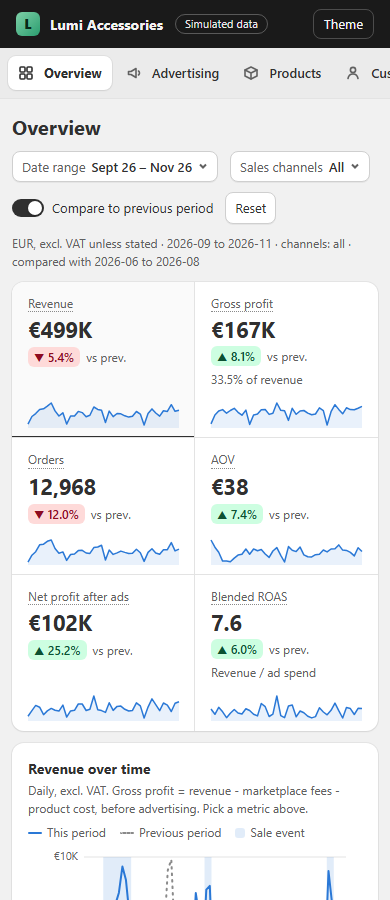
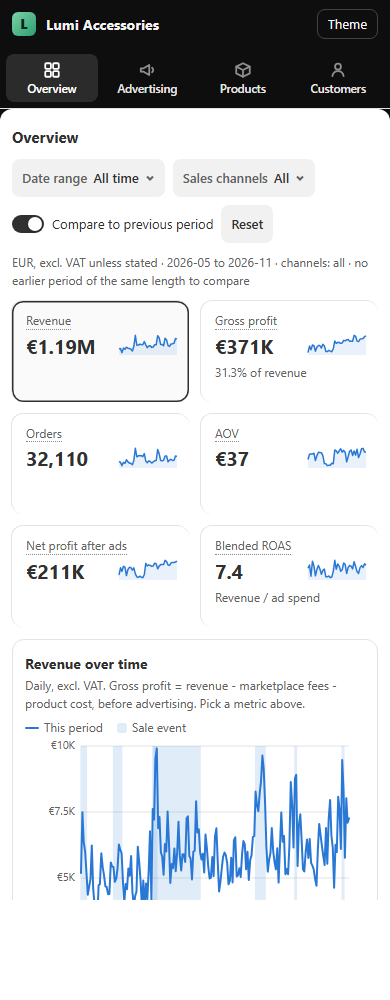
Dashboard: match the admin frame look (dark frame and sidebar, white rounded panel, separate metric cards with small trend lines); refresh screenshots

diff --git a/dashboard/theme.css b/dashboard/theme.css
@@ -165,14 +165,47 @@ details{margin-top:8px}summary{cursor:pointer;font-size:12px;color:var(--ink2)}
 .insight .m{color:var(--ink2);font-size:12.5px}.insight .m b{color:var(--ink)}
 footer.foot-note{margin-top:22px;font-size:12px;color:var(--ink2)}
 
+/* ---- Admin frame (matches the real admin look): dark frame and sidebar, white rounded content panel, separate metric cards ---- */
+:root, :root[data-theme="light"]{--frame:#0e0e0e;--panel:#ffffff;--side-ink:#e6e6e6;--side-muted:#8f8f8f;--side-active:#2b2b2b;--side-hover:#1c1c1c;--chip:#f1f1f1;--card-line:#e3e3e3}
+@media (prefers-color-scheme: dark){:root:where(:not([data-theme="light"])){--frame:#000000;--panel:#151515;--chip:#262626;--card-line:#2e2e2e}}
+:root[data-theme="dark"]{--frame:#000000;--panel:#151515;--chip:#262626;--card-line:#2e2e2e}
+body{background:var(--frame)}
+.topbar{background:var(--frame)}
+.side{background:var(--frame);border-right:none;color:var(--side-ink)}
+.side h6{color:var(--side-muted)}
+.nav{color:var(--side-ink);border-radius:8px}
+.nav svg{color:var(--side-muted)}
+.nav:hover{background:var(--side-hover)}
+.nav[aria-current="page"]{background:var(--side-active);box-shadow:none;color:#fff;font-weight:600}
+.nav[aria-current="page"] svg{color:#fff}
+.side .foot{color:var(--side-muted)}
+.main{background:var(--panel);border-radius:12px;margin:0 6px 6px 0;max-width:none;min-width:0;padding:16px 24px 48px}
+.main > *{max-width:1160px;margin-left:auto;margin-right:auto}
+.page-head h1{font-size:15px;font-weight:650}
+.btn{background:var(--chip);border:1px solid transparent;box-shadow:none;font-weight:550}
+.btn:hover{background:var(--press)}
+.btn.primary{background:var(--primary);color:var(--primary-ink)}
+.card{box-shadow:none;border:1px solid var(--card-line);background:var(--surface)}
+.pop{background:var(--surface)}
+/* metric strip: separate cards, small trend line bottom-right */
+.strip,.card.strip{background:transparent;border:none;box-shadow:none;padding:0;gap:12px;overflow:visible}
+.kpi,.kpi:first-child{border:1px solid var(--card-line);border-radius:12px;background:var(--surface);padding:12px 14px 12px;min-height:92px}
+button.kpi:hover{background:var(--hover)}
+button.kpi[aria-pressed="true"]{box-shadow:inset 0 0 0 1.5px var(--ink)}
+.kpi svg.spark{position:absolute!important;right:12px!important;top:32px!important;bottom:auto!important;width:58px!important;height:22px!important;margin:0!important}
+.kpi .v{font-size:20px;line-height:28px}
+.legend{margin:6px 0 0}
+/* the content-wide notice bar */
+.notice{display:flex;gap:10px;align-items:flex-start;background:var(--info-bg);color:var(--info-ink);border-radius:12px;padding:10px 14px;margin:0 0 12px;font-size:13px}
+
 /* small screens: navigation becomes a sticky 4-column strip (no horizontal scrolling), strip cells fill the row, controls are touch friendly */
 @media (max-width:860px){
   .shell{grid-template-columns:1fr}
-  .side{position:sticky;top:48px;z-index:20;height:auto;display:grid;grid-template-columns:repeat(auto-fit,minmax(0,1fr));gap:4px;overflow:visible;padding:6px;border-right:none;border-bottom:1px solid var(--line)}
+  .side{position:sticky;top:48px;z-index:20;height:auto;background:var(--frame);display:grid;grid-template-columns:repeat(auto-fit,minmax(0,1fr));gap:4px;overflow:visible;padding:6px;border-right:none;border-bottom:1px solid var(--line)}
   .side h6,.side .foot{display:none}
   .nav{flex-direction:column;justify-content:center;gap:3px;padding:6px 2px;font-size:11.5px;line-height:1.2;text-align:center;white-space:normal;min-height:48px}
   .nav svg{width:18px;height:18px}
-  .main{padding:14px 12px 40px}
+  .main{padding:14px 12px 40px;margin:0;border-radius:12px 12px 0 0}
   .page-head h1{width:100%}
   .page-head{gap:8px}
   .btn{min-height:38px}
@@ -180,9 +213,6 @@ footer.foot-note{margin-top:22px;font-size:12px;color:var(--ink2)}
   .pop select{font-size:16px;min-height:38px}
   .pop .item{min-height:40px}
   .strip{grid-template-columns:repeat(2,minmax(0,1fr))}
-  .kpi:nth-child(odd){border-left:none}
-  .kpi{border-top:1px solid var(--line)}
-  .kpi:nth-child(-n+2){border-top:none}
   .kpi:last-child:nth-child(odd){grid-column:span 2}
   .card{padding:14px 12px}
   .grid{gap:10px}

diff --git a/site/index.html b/site/index.html
@@ -173,14 +173,47 @@ details{margin-top:8px}summary{cursor:pointer;font-size:12px;color:var(--ink2)}
 .insight .m{color:var(--ink2);font-size:12.5px}.insight .m b{color:var(--ink)}
 footer.foot-note{margin-top:22px;font-size:12px;color:var(--ink2)}
 
+/* ---- Admin frame (matches the real admin look): dark frame and sidebar, white rounded content panel, separate metric cards ---- */
+:root, :root[data-theme="light"]{--frame:#0e0e0e;--panel:#ffffff;--side-ink:#e6e6e6;--side-muted:#8f8f8f;--side-active:#2b2b2b;--side-hover:#1c1c1c;--chip:#f1f1f1;--card-line:#e3e3e3}
+@media (prefers-color-scheme: dark){:root:where(:not([data-theme="light"])){--frame:#000000;--panel:#151515;--chip:#262626;--card-line:#2e2e2e}}
+:root[data-theme="dark"]{--frame:#000000;--panel:#151515;--chip:#262626;--card-line:#2e2e2e}
+body{background:var(--frame)}
+.topbar{background:var(--frame)}
+.side{background:var(--frame);border-right:none;color:var(--side-ink)}
+.side h6{color:var(--side-muted)}
+.nav{color:var(--side-ink);border-radius:8px}
+.nav svg{color:var(--side-muted)}
+.nav:hover{background:var(--side-hover)}
+.nav[aria-current="page"]{background:var(--side-active);box-shadow:none;color:#fff;font-weight:600}
+.nav[aria-current="page"] svg{color:#fff}
+.side .foot{color:var(--side-muted)}
+.main{background:var(--panel);border-radius:12px;margin:0 6px 6px 0;max-width:none;min-width:0;padding:16px 24px 48px}
+.main > *{max-width:1160px;margin-left:auto;margin-right:auto}
+.page-head h1{font-size:15px;font-weight:650}
+.btn{background:var(--chip);border:1px solid transparent;box-shadow:none;font-weight:550}
+.btn:hover{background:var(--press)}
+.btn.primary{background:var(--primary);color:var(--primary-ink)}
+.card{box-shadow:none;border:1px solid var(--card-line);background:var(--surface)}
+.pop{background:var(--surface)}
+/* metric strip: separate cards, small trend line bottom-right */
+.strip,.card.strip{background:transparent;border:none;box-shadow:none;padding:0;gap:12px;overflow:visible}
+.kpi,.kpi:first-child{border:1px solid var(--card-line);border-radius:12px;background:var(--surface);padding:12px 14px 12px;min-height:92px}
+button.kpi:hover{background:var(--hover)}
+button.kpi[aria-pressed="true"]{box-shadow:inset 0 0 0 1.5px var(--ink)}
+.kpi svg.spark{position:absolute!important;right:12px!important;top:32px!important;bottom:auto!important;width:58px!important;height:22px!important;margin:0!important}
+.kpi .v{font-size:20px;line-height:28px}
+.legend{margin:6px 0 0}
+/* the content-wide notice bar */
+.notice{display:flex;gap:10px;align-items:flex-start;background:var(--info-bg);color:var(--info-ink);border-radius:12px;padding:10px 14px;margin:0 0 12px;font-size:13px}
+
 /* small screens: navigation becomes a sticky 4-column strip (no horizontal scrolling), strip cells fill the row, controls are touch friendly */
 @media (max-width:860px){
   .shell{grid-template-columns:1fr}
-  .side{position:sticky;top:48px;z-index:20;height:auto;display:grid;grid-template-columns:repeat(auto-fit,minmax(0,1fr));gap:4px;overflow:visible;padding:6px;border-right:none;border-bottom:1px solid var(--line)}
+  .side{position:sticky;top:48px;z-index:20;height:auto;background:var(--frame);display:grid;grid-template-columns:repeat(auto-fit,minmax(0,1fr));gap:4px;overflow:visible;padding:6px;border-right:none;border-bottom:1px solid var(--line)}
   .side h6,.side .foot{display:none}
   .nav{flex-direction:column;justify-content:center;gap:3px;padding:6px 2px;font-size:11.5px;line-height:1.2;text-align:center;white-space:normal;min-height:48px}
   .nav svg{width:18px;height:18px}
-  .main{padding:14px 12px 40px}
+  .main{padding:14px 12px 40px;margin:0;border-radius:12px 12px 0 0}
   .page-head h1{width:100%}
   .page-head{gap:8px}
   .btn{min-height:38px}
@@ -188,9 +221,6 @@ footer.foot-note{margin-top:22px;font-size:12px;color:var(--ink2)}
   .pop select{font-size:16px;min-height:38px}
   .pop .item{min-height:40px}
   .strip{grid-template-columns:repeat(2,minmax(0,1fr))}
-  .kpi:nth-child(odd){border-left:none}
-  .kpi{border-top:1px solid var(--line)}
-  .kpi:nth-child(-n+2){border-top:none}
   .kpi:last-child:nth-child(odd){grid-column:span 2}
   .card{padding:14px 12px}
   .grid{gap:10px}
